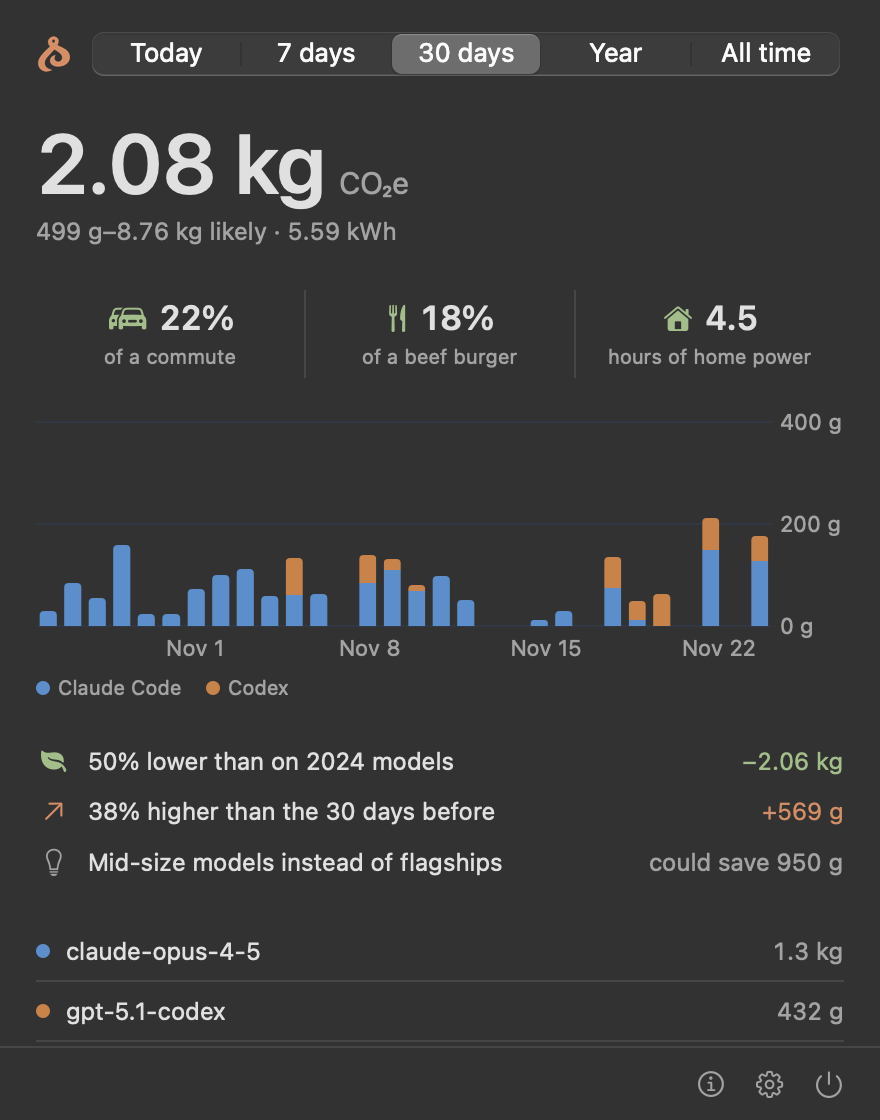
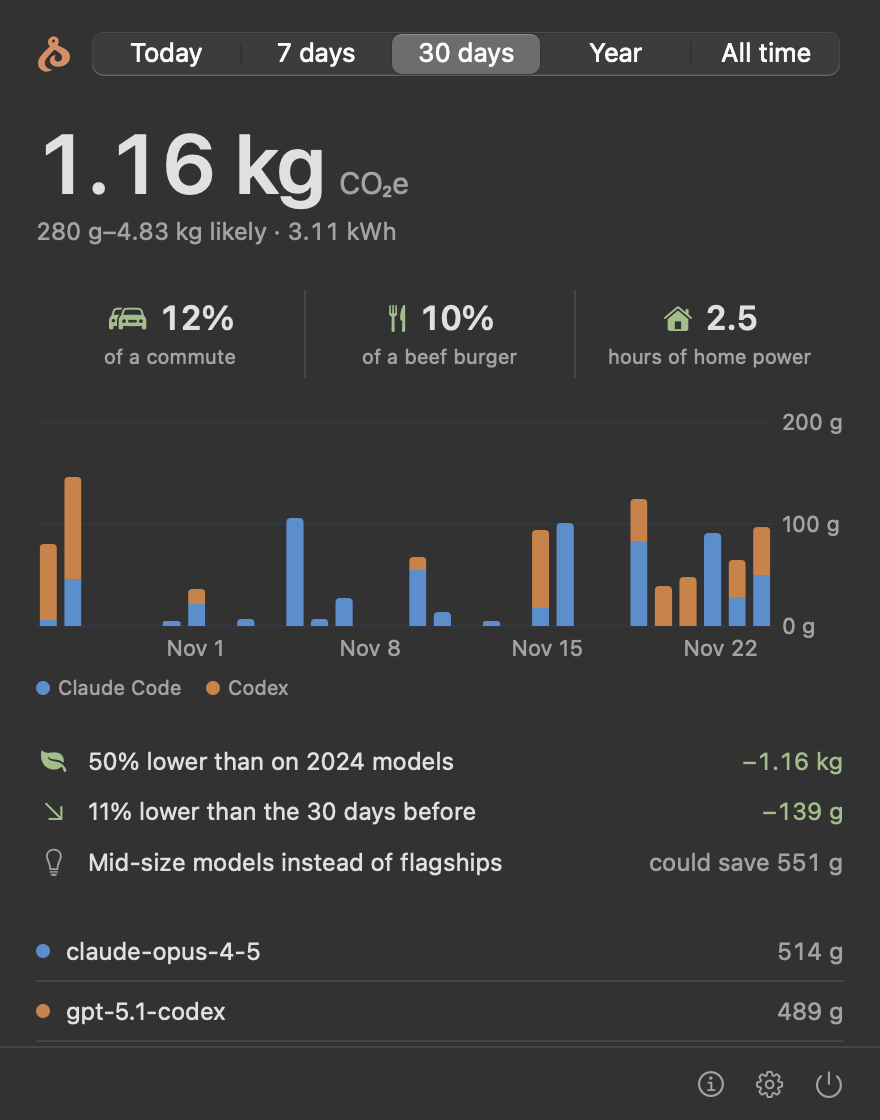
Document the Rust engine and the Linux CLI
README: Linux install, a "Linux and the command line" section with the commands and options, building the CLI with cargo install, cache locations per platform and Linux uninstall. The zstd requirement is gone. The example output and screenshots are regenerated from the engine's synthetic demo data, so the CLI example and the popover show the same numbers and no real usage.

AGENTS.md and CONTRIBUTING.md describe the engine/app split, the cargo and swift commands, verifying commits in a clean checkout, the cache and snapshot-schema versioning rules and the release version check. METHODOLOGY.md points at the engine source and explains why Codex records are keyed by rollout file.

diff --git a/README.md b/README.md
@@ -4,22 +4,23 @@
 
 # Superwarm
 
-**The carbon footprint of your AI coding agents, in your menu bar.**
+**The carbon footprint of your AI coding agents, in your menu bar or terminal.**
 
-Superwarm reads the token counts Claude Code and Codex already log on your Mac,<br>
+Superwarm reads the token counts Claude Code and Codex already log on your machine,<br>
 turns them into evidence-backed energy and CO₂e estimates, and shows<br>
 how much newer, more efficient models are saving.
 
 [![CI](https://github.com/camggould/superwarm/actions/workflows/ci.yml/badge.svg)](https://github.com/camggould/superwarm/actions/workflows/ci.yml)
 [![Latest release](https://img.shields.io/github/v/release/camggould/superwarm?sort=semver)](https://github.com/camggould/superwarm/releases/latest)
 ![macOS 14+](https://img.shields.io/badge/macOS-14%2B-2b2620)
+![Linux CLI](https://img.shields.io/badge/Linux-CLI-2b2620)
 [![MIT license](https://img.shields.io/badge/license-MIT-4f6f3a)](LICENSE)
 
 <br>
 
 <picture>
   <source media="(prefers-color-scheme: dark)" srcset="docs/images/popover-dark.png">
-  <img src="docs/images/popover-light.png" width="440" alt="The Superwarm popover: 2.08 kg CO₂e over 30 days, equal to 22% of a commute, with a daily chart and comparisons against 2024-era models">
+  <img src="docs/images/popover-light.png" width="440" alt="The Superwarm popover: 1.16 kg CO₂e over 30 days, equal to 12% of a commute, with a daily chart and comparisons against 2024-era models">
 </picture>
 
 <sub>Screenshots use a synthetic demo year, not real logs.</sub>
@@ -32,9 +33,12 @@ how much newer, more efficient models are saving.
 curl -fsSL https://raw.githubusercontent.com/camggould/superwarm/main/scripts/install.sh | bash
 ```
 
-This downloads the latest release, verifies its SHA-256 checksum, installs it
-to `~/Applications` and launches it. Requires **macOS 14 Sonoma or later**, on
-Apple Silicon or Intel.
+This downloads the latest release and verifies its SHA-256 checksum, then:
+
+- **macOS 14 Sonoma or later** (Apple Silicon or Intel): installs the menu bar
+  app to `~/Applications` and launches it.
+- **Linux** (x86_64 or ARM64, any distribution): installs the `superwarm` CLI
+  to `~/.local/bin`. See [Linux and the command line](#linux-and-the-command-line).
 
 <details>
 <summary><b>Or download it manually</b></summary>
@@ -55,10 +59,11 @@ Apple Silicon or Intel.
 ```sh
 git clone https://github.com/camggould/superwarm.git
 cd superwarm
-scripts/install-app.sh
+cargo install --path engine   # the CLI, on any platform
+scripts/install-app.sh        # the macOS app (needs Xcode 16 or later)
 ```
 
-Needs Xcode 16 or later. See [CONTRIBUTING.md](CONTRIBUTING.md).
+Needs a recent stable Rust. See [CONTRIBUTING.md](CONTRIBUTING.md).
 
 </details>
 
@@ -71,12 +76,15 @@ Change this under **Settings → Updates**.
 
 ### Uninstall
 
-Quit Superwarm from its popover, then:
+On macOS, quit Superwarm from its popover, then:
 
 ```sh
 rm -rf ~/Applications/Superwarm.app /Applications/Superwarm.app \
-  ~/Library/Application\ Support/Superwarm
+  ~/Library/Application\ Support/Superwarm ~/Library/Caches/superwarm
 defaults delete com.camggould.superwarm
+
+# Linux
+rm -rf ~/.local/bin/superwarm ~/.cache/superwarm
 ```
 
 ## What it shows
@@ -127,31 +135,61 @@ CO₂e = tokens × energy per token (by model size and generation) × PUE × gri
 - **Electricity** uses the US grid average by default (EPA eGRID). Change it in
   Settings.
 
-Every coefficient, range and source is in [docs/METHODOLOGY.md](docs/METHODOLOGY.md)
-and in the app under **ⓘ → How Superwarm estimates**. Training, hardware
+Every coefficient, range and source is in [docs/METHODOLOGY.md](docs/METHODOLOGY.md),
+in the app under **ⓘ → How Superwarm estimates**, and in `superwarm sources`. Training, hardware
 manufacturing and water aren't included yet.
 
 ## Privacy
 
-Everything stays on your Mac. Superwarm only reads your agents' local logs and
-writes a cache to `~/Library/Application Support/Superwarm`. Its only network
-request is the daily update check against GitHub. The shareable card leaves
+Everything stays on your machine. Superwarm only reads your agents' local logs
+and writes a parse cache (`~/Library/Caches/superwarm` on macOS,
+`~/.cache/superwarm` on Linux). The CLI makes no network requests. The macOS
+app's only request is the daily update check against GitHub. The shareable card leaves
 out project names.
 
-## Command line
+## Linux and the command line
 
-`superwarm-cli` prints the same report in a terminal:
+The engine behind the app is a standalone CLI. It runs anywhere your agents do:
+a Linux workstation, a remote dev box, a cloud VM.
 
-```sh
-swift run -c release superwarm-cli month   # today | week | month | year | all
+```console
+$ superwarm report month
+Superwarm — 30 days
+
+CO2e    1.16 kg  (90% range 280 g – 4.83 kg)
+Energy  3.11 kWh
+Tokens  out 2.3M · in 35.9k · cache write 5.8M · cache read 209.1M
+Efficiency dividend vs 2024-era models: 1.16 kg avoided (baseline 2.32 kg)
+
+That's about:
+  • 0.1 round-trip commutes
+  • 7.7 km flown (short-haul)
+  • 31 kettle boils
+  • 32 hours of video streaming
+…
 ```
+
+<sub>Synthetic demo data (`superwarm --demo report month`).</sub>
+
+| Command | What it shows |
+|---|---|
+| `superwarm report [today\|week\|month\|year\|all]` | Emissions with their likely range, energy, token mix, the efficiency dividend, everyday comparisons and a per-model table. `--json` for scripts. |
+| `superwarm year [YEAR]` | Your year in carbon: equivalents, how bad it could have been, streaks, night-owl share. |
+| `superwarm sources` | Every published source behind the numbers. |
+| `superwarm snapshot` | Everything, as one JSON document (what the macOS app reads). |
+
+Options for any command: `--grid <g/kWh>` (default 373, the US average),
+`--pue`, `--commute <miles>`, `--demo` for synthetic data, `--no-cache`.
+
+On macOS the app bundles the same CLI:
+`ln -sf ~/Applications/Superwarm.app/Contents/Helpers/superwarm ~/.local/bin/superwarm`.
 
 ## Supported tools
 
 | Tool | Logs read |
 |---|---|
 | [Claude Code](https://www.anthropic.com/claude-code) | `~/.claude/projects` (or `$CLAUDE_CONFIG_DIR`) |
-| [Codex](https://github.com/openai/codex) | `~/.codex/sessions` and `archived_sessions` (or `$CODEX_HOME`). Compressed `.jsonl.zst` logs need `zstd` (`brew install zstd`). |
+| [Codex](https://github.com/openai/codex) | `~/.codex/sessions` and `archived_sessions` (or `$CODEX_HOME`). |
 
 Want another tool supported? [Open an issue](https://github.com/camggould/superwarm/issues)
 with an example of its log format.

diff --git a/AGENTS.md b/AGENTS.md
@@ -1,43 +1,54 @@
 # AGENTS.md
 
-Guidance for coding agents (and humans) working on Superwarm, a macOS menu
-bar app that estimates the carbon footprint of AI coding-agent usage from local
-logs. Read [CONTRIBUTING.md](CONTRIBUTING.md) for the human-oriented version.
+Guidance for coding agents (and humans) working on Superwarm, which estimates
+the carbon footprint of AI coding-agent usage from local logs. It has two parts:
+a cross-platform **Rust engine and CLI** (`engine/`), and a **macOS menu bar app**
+(Swift) that bundles the engine and renders its output. Read
+[CONTRIBUTING.md](CONTRIBUTING.md) for the human-oriented version.
 
 ## Layout
 
 | Path | What lives there |
 |---|---|
-| `Sources/SuperwarmCore/` | All logic, no UI: log parsers, model catalog, emissions model, equivalents, scanner/cache, reports, year in review. Fully unit-tested. |
-| `Sources/Superwarm/` | The SwiftUI menu bar app: popover, settings, methodology window, Year in Carbon, Sparkle updates, preview renderer, demo data. |
-| `Sources/superwarm-cli/` | Terminal report built on SuperwarmCore. |
-| `Tests/SuperwarmCoreTests/` | Swift Testing suites, one file per core component. |
+| `engine/` | The Rust crate: all estimation logic and the `superwarm` CLI. Log parsers, model catalog, emissions model, citations, equivalents, scanner/cache, reports, year in review, demo data and the `snapshot` JSON the app reads. Unit tests sit next to the code. |
+| `Sources/SuperwarmKit/` | Swift: decodes the engine's snapshot JSON, runs the engine binary, formats numbers. |
+| `Sources/Superwarm/` | The SwiftUI menu bar app: popover, settings, methodology window, Year in Carbon, Sparkle updates, preview renderer. No estimation logic. |
+| `Tests/SuperwarmKitTests/` | The app/engine contract: decodes a committed fixture of real engine output. |
 | `scripts/` | Build, install, package, release and installer scripts. |
 | `docs/METHODOLOGY.md` | The emissions model, every coefficient and its sources. |
+
+The app runs the bundled engine (`Superwarm.app/Contents/Helpers/superwarm snapshot`)
+and draws whatever it returns, so the Mac app and the Linux CLI always agree.
 
 ## Commands
 
 ```sh
-swift build                    # debug build
-swift test                     # all tests (must pass before every commit)
-scripts/install-app.sh         # build Superwarm.app and install to ~/Applications
-swift run superwarm-cli month  # terminal report against real logs
+# Engine (run from engine/)
+cargo test                     # must pass before every commit
+cargo fmt && cargo clippy --all-targets -- -D warnings
+cargo run --release -- report month   # terminal report against real logs
+cargo run --release -- --demo year    # synthetic data
+
+# macOS app (run from the repo root; uses engine/target/release/superwarm)
+swift build && swift test
+scripts/install-app.sh         # build Superwarm.app with the engine and install it
 
 # Visual checks without screen recording; writes PNGs:
 .build/debug/Superwarm --render-preview /tmp/sw/pop [--demo]   # popover, light+dark, today+30 days
 .build/debug/Superwarm --render-review  /tmp/sw/rv  [--demo]   # every Year in Carbon slide + share card
 ```
 
-`--demo` uses the deterministic synthetic year in `DemoData.swift`. Always use
-it for anything committed (README images), never real logs.
+`--demo` uses the deterministic synthetic year in `engine/src/demo.rs`. Always
+use it for anything committed (README images), never real logs.
 
 ## Rules
 
 ### Commits
 
 - **Atomic and bisectable.** One logical change per commit. Every commit
-  builds and passes `swift test`. Tests ship in the same commit as the change
-  they cover. Keep refactors, renames and dependency bumps separate from
+  builds and passes `cargo test` and `swift test`. Tests ship in the same commit
+  as the change they cover. Verify in a clean checkout (`git worktree add`), not
+  just your working tree. Keep refactors, renames and dependency bumps separate from
   behaviour changes.
 - **Messages explain why.** Imperative subject; the body gives the reason and
   anything a reviewer can't recover from the diff.
@@ -46,13 +57,23 @@ it for anything committed (README images), never real logs.
 ### The emissions model must stay evidence-backed
 
 - Every coefficient or comparison factor needs a published source, added to
-  `Citations.swift` **and** `docs/METHODOLOGY.md` in the same commit.
+  `engine/src/citations.rs` **and** `docs/METHODOLOGY.md` in the same commit.
 - Ranges are part of the model. A new coefficient needs a central value and a
-  spread (`Coefficient(central, spread:)`), justified in the methodology.
+  spread (`Coefficient::new(central, spread)`), justified in the methodology.
 - Prefer conservative assumptions. Don't overstate the efficiency of newer
   models; the app's credibility depends on it.
 - Physics-derived equivalents (kettle, shower) state their assumptions in the
   `note` and in the methodology table.
+
+### Engine
+
+- Bump `ScanCache::VERSION` whenever a parser changes what it emits (ids,
+  fields, merging), or stale cached records will be reused silently.
+- The snapshot JSON is a contract. Bump `snapshot::SCHEMA_VERSION` and
+  `Snapshot.supportedSchemaVersion` together for breaking changes, and
+  regenerate `Tests/SuperwarmKitTests/Fixtures/demo-snapshot.json`
+  (`superwarm --demo snapshot`).
+- Keep the CLI portable: no macOS-only APIs outside `#[cfg(target_os = "macos")]`.
 
 ### UI
 
@@ -73,8 +94,10 @@ it for anything committed (README images), never real logs.
 ### Releases
 
 Maintainers release with `scripts/release.sh X.Y.Z --push` after adding a
-`## [X.Y.Z]` section to `CHANGELOG.md`. The tag triggers
-`.github/workflows/release.yml`, which tests, packages, signs the archive for
-Sparkle and publishes the GitHub release. Never commit signing keys. The Sparkle
+`## [X.Y.Z]` section to `CHANGELOG.md` and setting `engine/Cargo.toml` to the
+same version. The tag triggers
+`.github/workflows/release.yml`, which tests, builds static Linux CLIs and the
+universal macOS app and CLI, signs the app archive for Sparkle and publishes the
+GitHub release. Never commit signing keys. The Sparkle
 private key lives only in the
 `SPARKLE_PRIVATE_KEY` repository secret.

diff --git a/CONTRIBUTING.md b/CONTRIBUTING.md
@@ -15,20 +15,27 @@ so the most valuable contributions are often **better sources**, not code.
 
 ## Development setup
 
-You need macOS 14+ and Xcode 16 or later. For compressed Codex logs, also
-`brew install zstd`.
+Superwarm has a Rust engine with a CLI (`engine/`, any platform) and a macOS app
+(Swift, macOS 14+ with Xcode 16 or later) that bundles the engine.
 
 ```sh
 git clone https://github.com/camggould/superwarm.git
-cd superwarm
-swift build
-swift test
-scripts/install-app.sh   # builds Superwarm.app, installs to ~/Applications, launches it
+cd superwarm/engine
+cargo test
+cargo run --release -- report month   # your own logs
+cargo run --release -- --demo year    # synthetic data
 ```
 
-The logic lives in `SuperwarmCore` and is unit-tested. The SwiftUI app is in
-`Sources/Superwarm`. `superwarm-cli` (`swift run superwarm-cli month`) is the
-quickest way to see the model against your own logs.
+For the app, build the engine once, then:
+
+```sh
+cd ..                    # repo root
+swift build && swift test
+scripts/install-app.sh   # builds Superwarm.app with the engine, installs to ~/Applications, launches it
+```
+
+All estimation logic lives in the engine and is unit-tested there. The app only
+decodes and draws the engine's `superwarm snapshot` JSON.
 
 ### Checking UI changes
 
@@ -48,26 +55,27 @@ commit those images).
 
 ### Adding a model
 
-Add its public release month to `ModelCatalog.entries`, with a test in
-`ModelCatalogTests` if the name is unusual. Size tiers are inferred from the
+Add its public release month to `ENTRIES` in `engine/src/catalog.rs`, with a
+test if the name is unusual. Size tiers are inferred from the
 name (Opus/flagship, Sonnet, Haiku/mini). Users can also override both in
 `~/Library/Application Support/Superwarm/models.json`.
 
 ### Adding an everyday comparison
 
-Add an `Equivalent` in `Equivalents.swift` with its source in
-`Citations.swift`, a row in the methodology table, and a test that pins its
-size. Electricity-based comparisons should scale with the user's grid setting.
+Add an `Equivalent` in `engine/src/equivalents.rs` with its source in
+`engine/src/citations.rs`, a row in the methodology table, and a test that pins
+its size. Electricity-based comparisons should scale with the user's grid setting.
 
 ### Changing a coefficient
 
-Update `EnergyCoefficients`, the methodology document and its sources together
-in one commit, and explain the evidence in the commit message.
+Update `EnergyCoefficients` in `engine/src/emissions.rs`, the methodology
+document and its sources together in one commit, and explain the evidence in the
+commit message.
 
 ## Commits and pull requests
 
 - Keep each commit to **one logical change** that builds and passes
-  `swift test` on its own. Bug fixes ship with their regression test.
+  `cargo test` and `swift test` on its own. Bug fixes ship with their regression test.
 - Write imperative commit subjects, with a body explaining *why*.
 - Squash "fix typo" / "address review" commits into the commits they belong to
   before merge.
@@ -75,11 +83,13 @@ in one commit, and explain the evidence in the commit message.
 
 ## Releasing (maintainers)
 
-1. Add a `## [X.Y.Z]` section to `CHANGELOG.md` and merge it to `main`.
+1. Add a `## [X.Y.Z]` section to `CHANGELOG.md`, set `version = "X.Y.Z"` in
+   `engine/Cargo.toml`, and merge to `main`.
 2. Run `scripts/release.sh X.Y.Z --push`. It checks the tree, runs the tests,
    tags `vX.Y.Z` and pushes the tag.
-3. The release workflow builds a universal app, signs the archive with the
-   Sparkle EdDSA key, and publishes the zip, `SHA256SUMS` and `appcast.xml`.
+3. The release workflow builds static Linux CLIs (x86_64, ARM), the universal
+   macOS app and CLI, signs the app archive with the Sparkle EdDSA key, and
+   publishes everything with `SHA256SUMS` and `appcast.xml`.
    Installed copies pick it up within a day.
 
 Repository secrets:

diff --git a/docs/METHODOLOGY.md b/docs/METHODOLOGY.md
@@ -4,15 +4,16 @@ Superwarm turns the token counts your coding agents already log into energy
 and carbon estimates. Nobody outside the model providers can measure inference
 energy directly, so every figure is an **estimate with a range**. This
 document explains each step, every coefficient, and where it comes from. The
-code lives in [`EmissionsModel.swift`](../Sources/SuperwarmCore/EmissionsModel.swift)
-and the sources in [`Citations.swift`](../Sources/SuperwarmCore/Citations.swift).
+code lives in [`engine/src/emissions.rs`](../engine/src/emissions.rs) and the
+sources in [`engine/src/citations.rs`](../engine/src/citations.rs). The macOS app
+and the `superwarm` CLI run the same engine.
 
 ## 1. Reading usage
 
 | Tool | Logs | What's counted |
 |---|---|---|
 | Claude Code | `~/.claude/projects/**/*.jsonl` | The `usage` block of each API response. One response is logged once per content block, so lines are merged by message id + request id. |
-| Codex | `~/.codex/sessions/**/rollout-*.jsonl[.zst]` | The growth in the running `total_token_usage` between `token_count` events. A resumed session starts from `last_token_usage`, so inherited history isn't counted twice. |
+| Codex | `~/.codex/sessions/**/rollout-*.jsonl[.zst]` | The growth in the running `total_token_usage` between `token_count` events. A resumed session starts from `last_token_usage`, so inherited history isn't counted twice. Records are keyed by rollout file, because forked and subagent rollouts can reuse their parent's session id. |
 
 Tokens are split into four kinds because they cost very different amounts of compute:
 
@@ -21,8 +22,8 @@ Tokens are split into four kinds because they cost very different amounts of com
 - **Cache write**: input processed and stored in the prompt cache.
 - **Cache read**: input whose attention keys and values are already cached.
 
-Nothing is uploaded. The only network request Superwarm makes is the update
-check against GitHub.
+Logs are found in the same places on macOS and Linux. Nothing is uploaded. The
+only network request is the macOS app's update check against GitHub.
 
 ## 2. Energy per token
 
